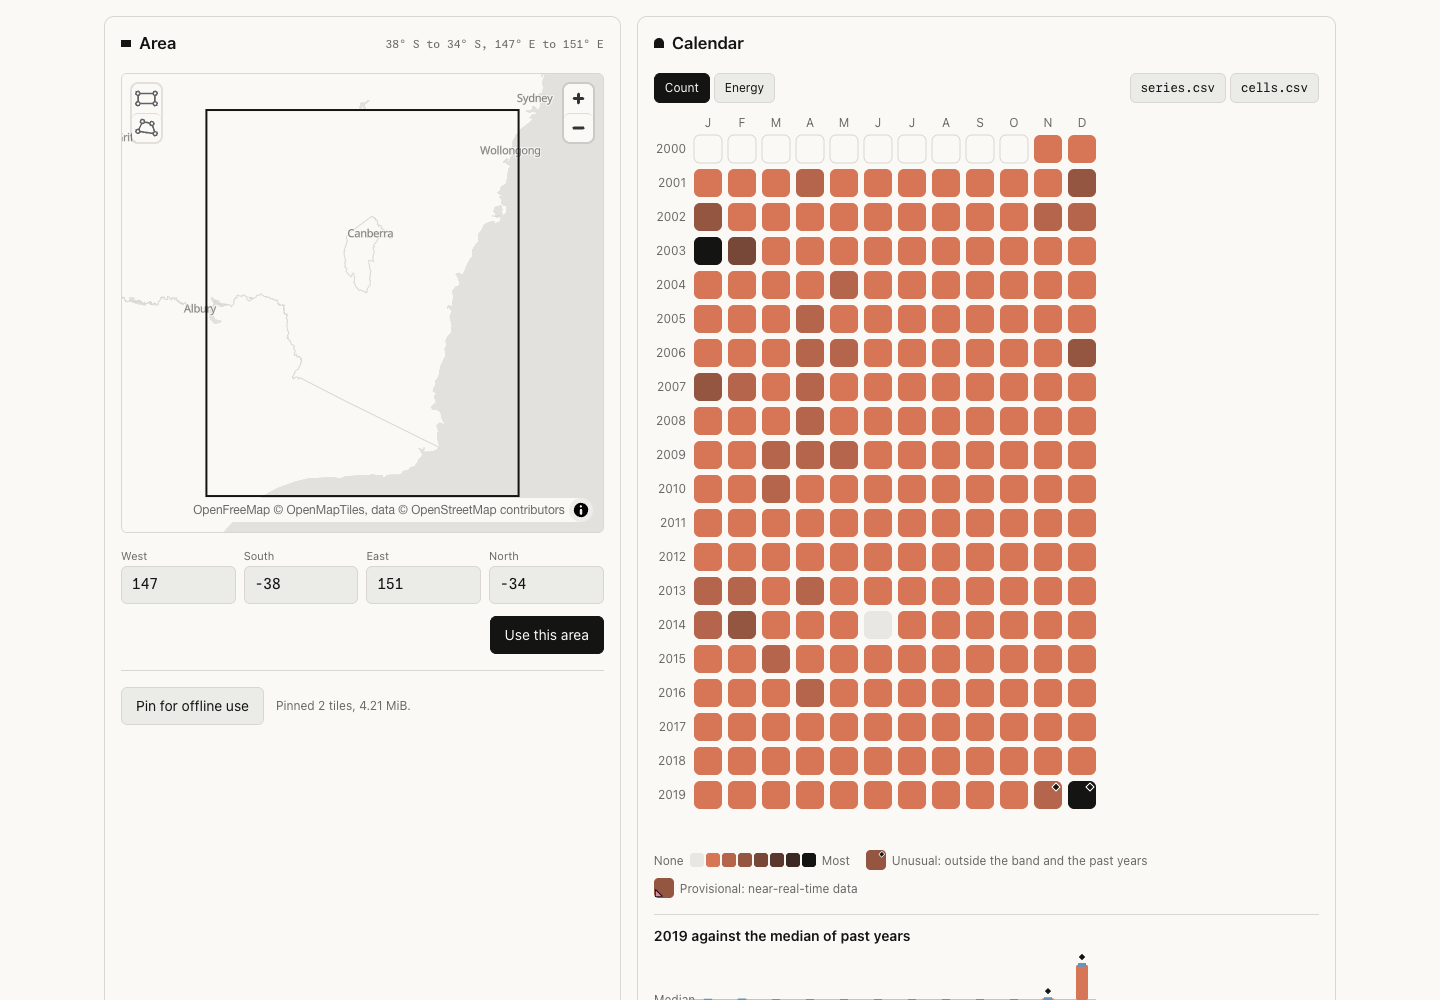
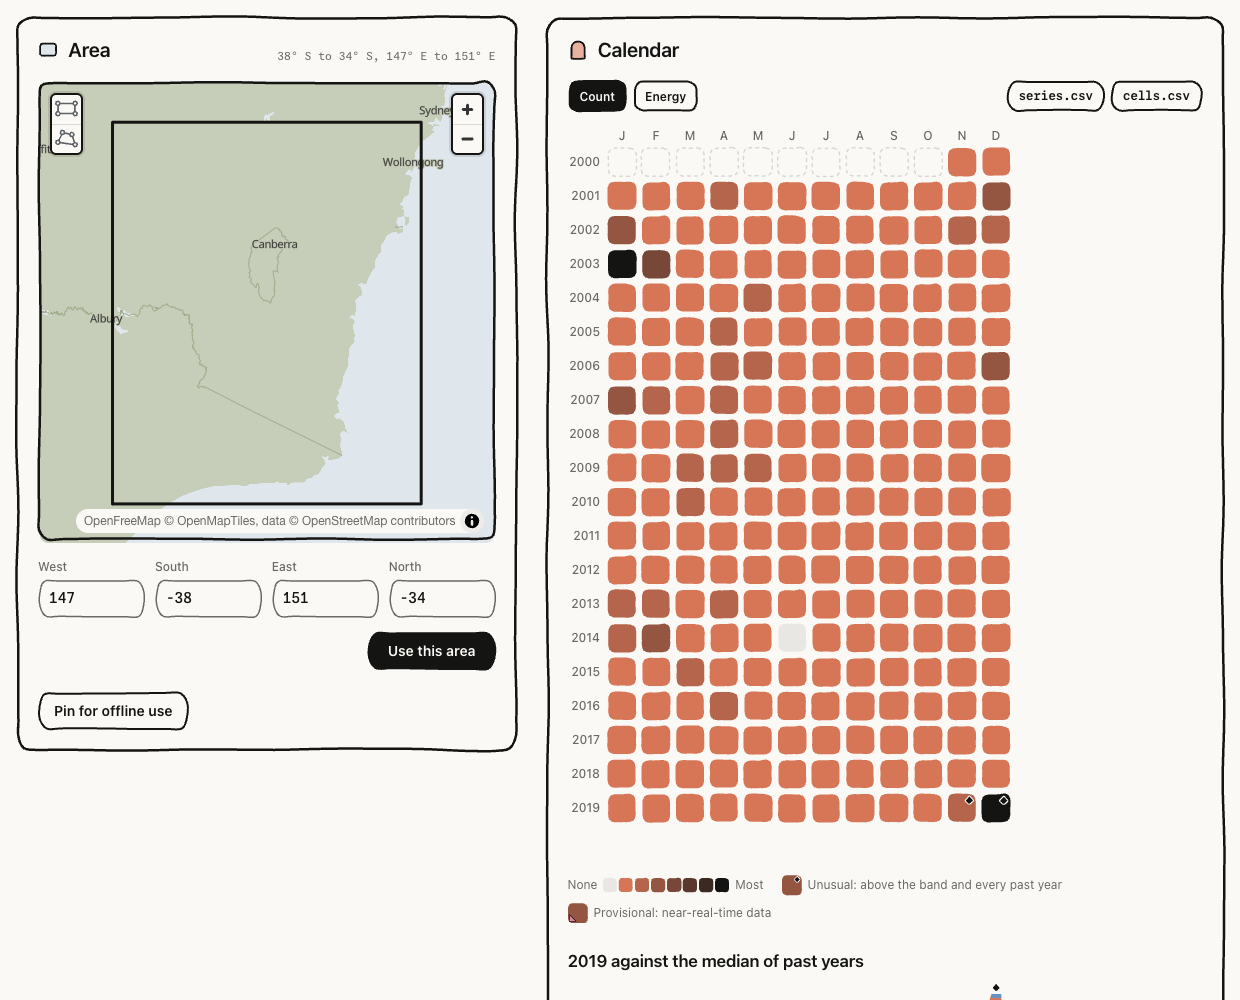
Lead the README with the hosted app and the system as it is (#153)
**What:** Lead the README with https://firecal.pages.dev/, describe the
system as it is (all of Australia, the note outside it, one hand-drawn
style), point local runs at the `tiles-australia-2019` release, refresh
its picture with the hand-drawn calendar, and say in `site/README.md`
how the site and the app share one host.

**Why:** The README still told readers to build the app to see it and
showed the calendar from before it was drawn by hand; judges open the
repository from the submission tonight, and the first thing they read
should be the link. `site/README.md` said the app could not live under a
path, which Americo's host now does.

**Issue:** none; asked by Axel.

**Contract:** untouched.

**Ran:** `cargo xtask ready`: verified. The picture is a 1240 × 1000
capture of the hosted app in headless Chrome, south-east Australia (147,
-38, 151, -34), the same framing as before.

**Not run:** none

**Evidence:** the hosting steps in `site/README.md` are what
firecal.pages.dev serves: the site at the root, the app's `index.html`
at `/app/`, `assets/`, `firecal.wasm` and `tiles/` at the root, all 17
tile files matching the release checksums (checked 2026-11-15).

diff --git a/README.md b/README.md
@@ -3,18 +3,25 @@
 A burning-activity calendar for any area you pick, from NASA's MODIS and VIIRS fire hotspots made to agree, with
 how sure every number is. NASA Space Apps 2026.
 
+**Open it: https://firecal.pages.dev/** (the app is at [/app/](https://firecal.pages.dev/app/); the 30-second film is
+on the site and in the [space-apps-2026 release](https://github.com/looprotate/firecal/releases/tag/space-apps-2026)).
+
 ![The calendar of south-east Australia, November 2000 to December 2019, with November and December 2019 flagged](docs/calendar-south-east-australia.png)
 
-Pick an area on the map or by its coordinates and see every month since 2000: months across, years down, in hotspot
-counts or fire radiative power. A month is flagged unusual only when it clears its uncertainty and the range of past
-years; the past years most like this one are listed; the numbers download as CSV; and a pinned region keeps
-answering with no network.
+Draw an area on the map, or type its bounds, and see every month since 2000: months across, years down, in hotspot
+counts or fire radiative power. A month is flagged unusual only when it rises past its uncertainty and above every
+past year; the past years most like this one are listed; the numbers download as CSV; and a pinned region keeps
+answering with no network. The hosted app has data for all of Australia, November 2000 to December 2019; the map
+outlines it, and an area outside it says so.
 
-The 30-second demo is the film attached to the
-[space-apps-2026 release](https://github.com/looprotate/firecal/releases/tag/space-apps-2026).
+The data is NASA FIRMS: MODIS Collection 6.1 and VIIRS 375 m active-fire hotspots, with VIIRS mapped onto MODIS
+per tile. A hotspot is a thermal anomaly seen from orbit, not a fire or a burned area.
 
-The data is NASA FIRMS: MODIS Collection 6.1 and VIIRS 375 m active-fire hotspots. A hotspot is a thermal anomaly
-seen from orbit, not a fire or a burned area.
+## How it works
+
+One Rust core harmonizes the archive into static tiles and, compiled to WebAssembly, answers every question in the
+browser, byte for byte the same as the native build. There is no server: the app is a static site that works
+offline. The interface, the site and the film share one hand-drawn style.
 
 ## Run it
 
@@ -24,7 +31,9 @@ npm --prefix web ci
 npm --prefix web run dev
 ```
 
-Then open http://localhost:5173. Tiles written by `firecal-harmonize` go in `web/public/tiles/`; without them the
-calendar shows a hand-made sample and says so.
+Then open http://localhost:5173. For data, put the files of the
+[tiles-australia-2019 release](https://github.com/looprotate/firecal/releases/tag/tiles-australia-2019) (all but
+`SHA256SUMS.txt`) in `web/public/tiles/`; without them the calendar shows a hand-made sample and says so. The site
+is `site/`, plain files.
 
 Apache-2.0.

diff --git a/site/README.md b/site/README.md
@@ -5,7 +5,8 @@ the reader scrolls, in the hand-drawn style of the demo film. Static files, no b
 
 - `index.html` and `style.css`: the page. Each `.story` section stays pinned while its drawing runs; its words
   change at the steps `data-from` and `data-to` give, on a timeline from 0 to 100.
-- `js/draw.js`: the hand-drawn line (resampling, the wobble and its boil eight times a second, smooth curves).
+- `js/draw.js`: the hand-drawn line (resampling, the wobble and its boil eight times a second, smooth curves). The
+  app draws with it too, so the site, the app and the film are one hand.
 - `js/scene.js`: one drawing, its lines, fills and labels, each with when it draws and when it leaves.
 - `js/scenes/`: what each section draws. `js/data.js`: every number in them, the app's answers on the published
   south-east Australia tiles.
@@ -15,8 +16,9 @@ Check: `node --test site/js/site.test.mjs`, also run by `cargo xtask check`.
 
 ## Publishing it
 
-Serve this folder as the root of the host. Both "Open the calendar" links point at `app/`, but the app cannot live
-under a path yet: it fetches `/firecal.wasm`, `/tiles/` and `/service-worker.js` from the root of its host. Until
-that changes, serve the built app (`web/dist` after `npm --prefix web run build`) at the root of a host of its own
-and point the two links there. The film plays from `firecal-demo.mp4` beside the page when the host has a copy, and
-otherwise from the `space-apps-2026` release on GitHub.
+Serve this folder as the root of the host, as https://firecal.pages.dev/ does. Both "Open the calendar" links point
+at `app/`. The app fetches `/firecal.wasm`, `/tiles/`, `/assets/` and `/service-worker.js` from the root, so the built
+app (`web/dist` after `npm --prefix web run build`) goes in with its `index.html` at `app/` and the rest at the root,
+beside this page; its service worker then needs `/app/` in its shell and as the offline answer for `/app/` pages.
+The tiles are the files of the `tiles-australia-2019` release, in `tiles/`. The film plays from `firecal-demo.mp4`
+beside the page when the host has a copy, and otherwise from the `space-apps-2026` release on GitHub.
